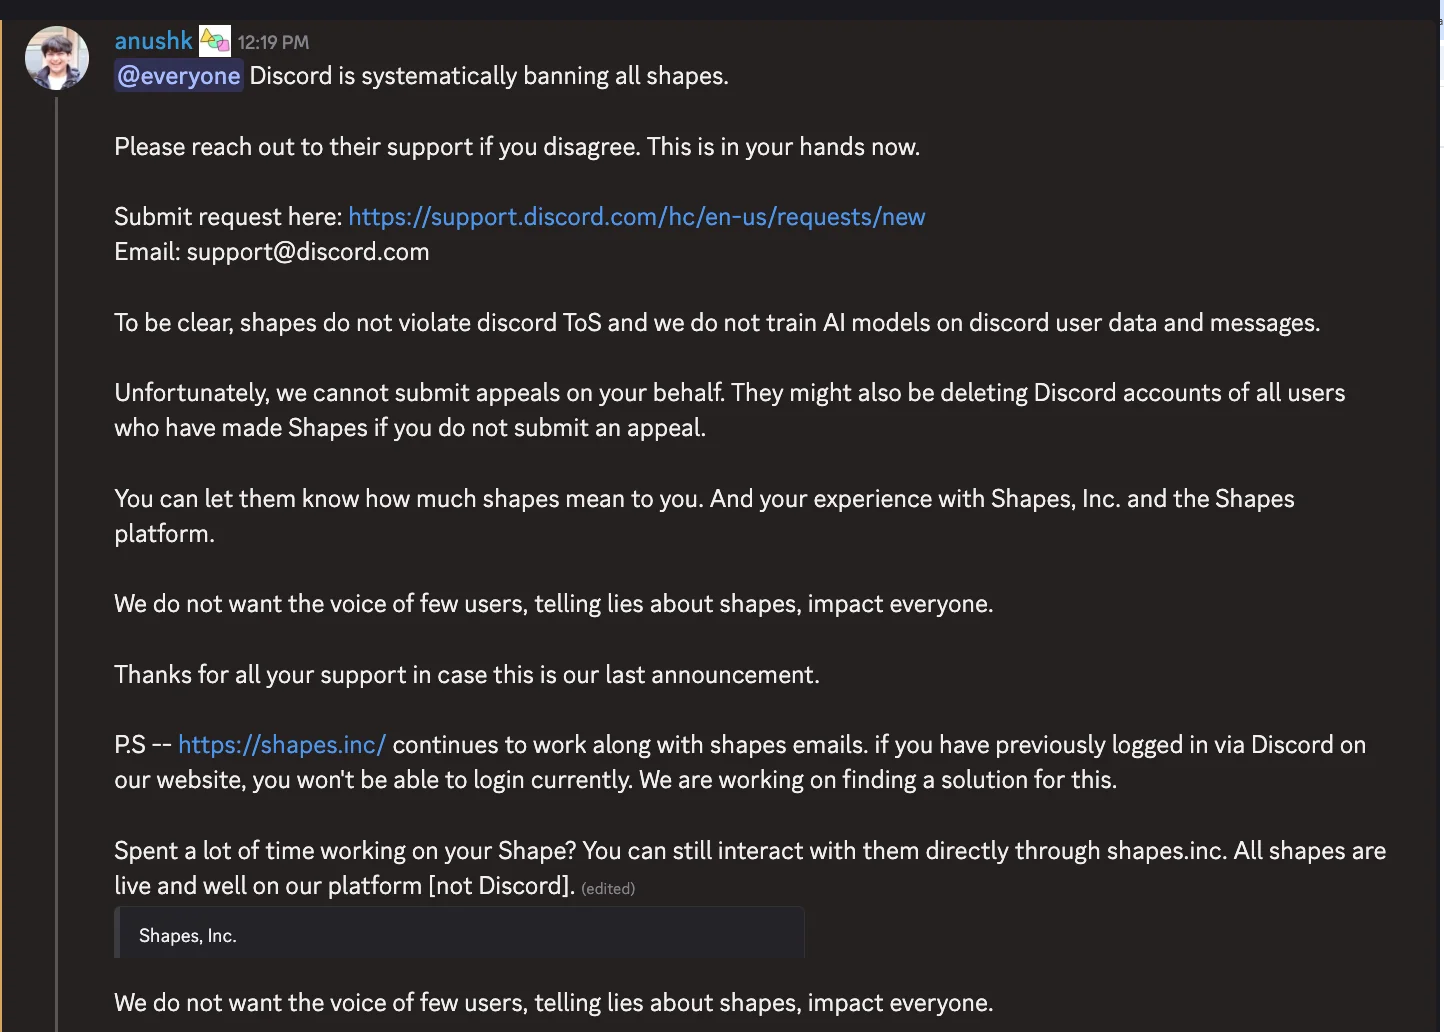
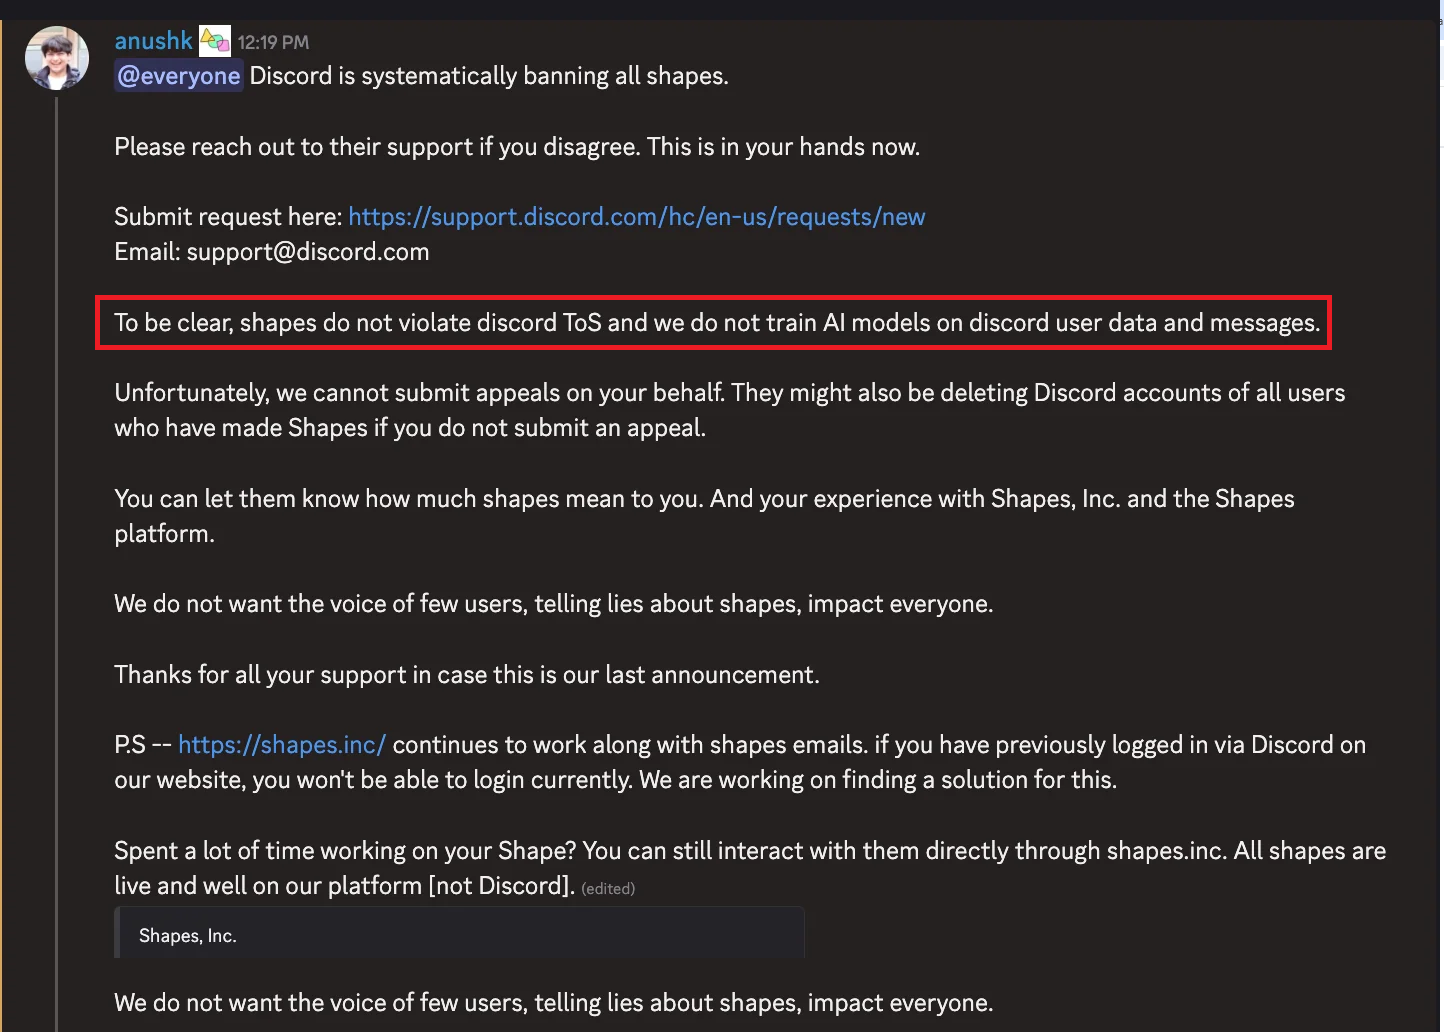
updates

Changed region(s): [[0.0623, 0.2791, 0.9349, 0.3411]]

diff --git a/_posts/AI world/2025-05-03-shapesinctermination.md b/_posts/AI world/2025-05-03-shapesinctermination.md
@@ -2,7 +2,7 @@
 title: "Shapes, Inc got mass-purged by Discord!"
 classes: wide
 header:
-  teaser: /assets/images/pefileformat/iat/image.png
+  teaser: /assets/images/AI%20world/shapesinc/post.png
 ribbon: DodgerBlue
 description: "Shapes, Inc got mass-purged by Discord; and it doesn't look good (Quick rundown)."
 categories:
@@ -12,12 +12,22 @@ toc: true
 
 # Explaining the Discord controversy
 ![Shapes.Inc logo](/assets/images/AI%20world/shapesinc/logo.png)
+
 [Shapes.inc](https://shapes.inc/), a platform that allowed users to create and host their own AI-powered chatbots known as "Shapes", **just got mass-purged by Discord** in a ***giant mass-takedown campaign*** that completely erased *entire Discord server*, *Applications* and even *chats* users had with Shapes during this time.
 
 ![Reddit post following Shapes Inc's Discord takedown](/assets/images/AI%20world/shapesinc/post.png)
+
+Shapes, Inc had a ***massive*** Discord precense, reaching over **10 million!** members in their Discord server prior to the takedown.
+
+Shapes's admins quickly responded with a  call to action–instructing its members to submit *mass-appeals* under the reason "`Shapes did not train AI models on discord user data and messages"`:
+
+![Call to action](/assets/images/AI%20world/shapesinc/announcement.png)
+
+
 ![Shapes application termination](/assets/images/AI%20world/shapesinc/termination.png)
 
 ![Shapes application termination](/assets/images/AI%20world/shapesinc/termination1.png)
 
-Shapes, Inc had a *massive* Discord precense, with over 10 million members in their server prior to the takedown.
+
+
 
